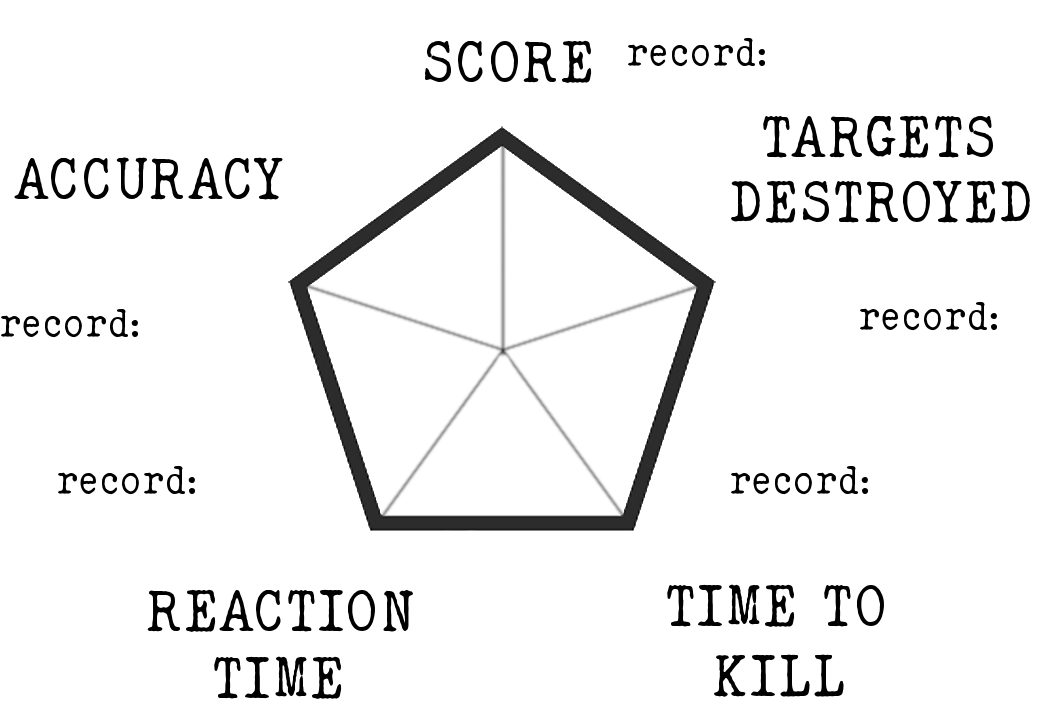
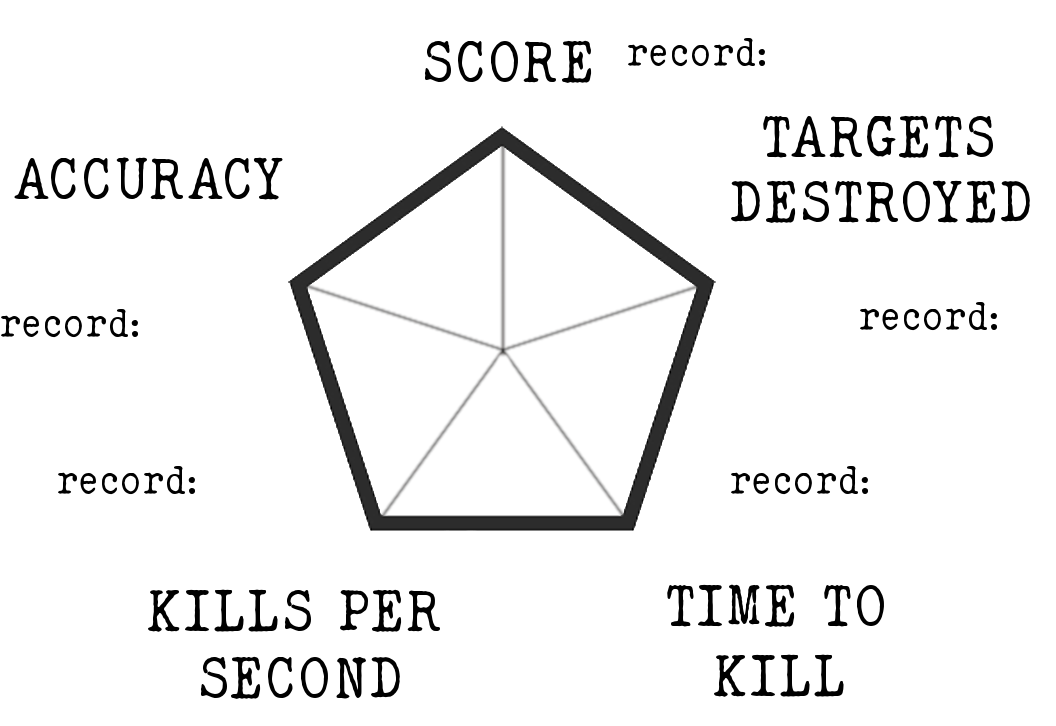
modifiche alle grafiche delle statistiche

Changed region(s): [[0.125, 0.7879, 0.4375, 0.9697]]

diff --git a/Game2Dprj/Results.cs b/Game2Dprj/Results.cs
@@ -106,7 +106,7 @@ namespace Game2Dprj
         void endHittingGameHandler(object sender, HittingGameEventArgs e)            //this handler could be edited to be the handler of both games,using typeof sender object to determine which game is ended
         {
             int scoreRec = 0, targetsDestroyedRec = 0;
-            float avgTimeToKillRec = 0, accuracyRec = 0;
+            float avgTimeToKillRec = 0, accuracyRec = 0, killsPerSecRec = 0;
             targetsDestroyedH = e.TargetsDestroyed;
             clicksH = e.Clicks;
             scoreH = e.Score;
@@ -129,8 +129,8 @@ namespace Game2Dprj
             {
                 avgTimeToKillH = -1;
             }
-            ManageFile(filePath, ref scoreRec, ref targetsDestroyedRec, ref avgTimeToKillRec, ref accuracyRec);
-            statistics = new Pentagon(pentagono, graphicPos, scoreH, targetsDestroyedH, avgTimeToKillH, killsPerSecH, accuracyH, 0.8f, freccia, font, scoreRec, targetsDestroyedRec, accuracyRec, avgTimeToKillRec,1f);
+            ManageFile(filePath, ref scoreRec, ref targetsDestroyedRec, ref avgTimeToKillRec, ref accuracyRec, ref killsPerSecRec);
+            statistics = new Pentagon(pentagono, graphicPos, scoreH, targetsDestroyedH, avgTimeToKillH, killsPerSecH, accuracyH, 0.8f, freccia, font, scoreRec, targetsDestroyedRec, accuracyRec, avgTimeToKillRec,killsPerSecRec);
         }
 
         void endTrackerGameHandler(object sender, TrackerGameEventArgs e)            //this handler could be edited to be the handler of both games,using typeof sender object to determine which game is ended
@@ -158,7 +158,8 @@ namespace Game2Dprj
             updated = hittingGameRecords[0] + " ";
             updated += hittingGameRecords[1] + " ";
             updated += hittingGameRecords[2] + " ";
-            updated += hittingGameRecords[3] + "\n";
+            updated += hittingGameRecords[3] + " ";
+            updated += hittingGameRecords[4] + "\n";
 
             if (trackerGameRecords[0] == "-" || trackerGameRecords[1] == "-" || trackerGameRecords[2] == "-")
             {
@@ -210,7 +211,7 @@ namespace Game2Dprj
             WriteToFile(filePath, updated);
         }
 
-        void ManageFile(string filePath, ref int scoreRec, ref int targetsDestroyedRec, ref float avgTimeToKillRec, ref float accuracyRec)  //hittingGame version
+        void ManageFile(string filePath, ref int scoreRec, ref int targetsDestroyedRec, ref float avgTimeToKillRec, ref float accuracyRec, ref float killsPerSecRec)  //hittingGame version
         {
             string readFromFile = ReadFromFile(filePath);
             string[] gameValues = readFromFile.Split("\n");
@@ -218,16 +219,18 @@ namespace Game2Dprj
             string[] trackerGameRecords = gameValues[1].Split(" ");
             string updated = null;
            
-            if (hittingGameRecords[0] == "-" || hittingGameRecords[1] == "-" || hittingGameRecords[2] == "-" || hittingGameRecords[3] == "-")
+            if (hittingGameRecords[0] == "-" || hittingGameRecords[1] == "-" || hittingGameRecords[2] == "-" || hittingGameRecords[3] == "-" || hittingGameRecords[4] == "-")
             {
                 updated = scoreH.ToString() + " ";
                 updated += targetsDestroyedH.ToString() + " ";
                 updated += avgTimeToKillH.ToString() + " ";
-                updated += accuracyH.ToString() + "\n";
+                updated += accuracyH.ToString() + " ";
+                updated += killsPerSecH.ToString() + "\n";
                 scoreRec = scoreH;
                 targetsDestroyedRec = targetsDestroyedH;
                 avgTimeToKillRec = avgTimeToKillH;
                 accuracyRec = accuracyH;
+                killsPerSecRec = killsPerSecH;
             }
             else
             {
@@ -254,9 +257,9 @@ namespace Game2Dprj
                     updated += hittingGameRecords[1] + " ";
                     targetsDestroyedRec = int.Parse(hittingGameRecords[1]);
                 }
-                
+
                 //check avgTimeToKillH
-                if (avgTimeToKillH < float.Parse(hittingGameRecords[2]))
+                if (((avgTimeToKillH < float.Parse(hittingGameRecords[2])) && (avgTimeToKillH != -1f)) || (float.Parse(hittingGameRecords[2]) == -1f))
                 {
                     updated += avgTimeToKillH.ToString() + " ";
                     avgTimeToKillRec = avgTimeToKillH;
@@ -270,13 +273,25 @@ namespace Game2Dprj
                 //check accuracyH
                 if (accuracyH > float.Parse(hittingGameRecords[3]))
                 {
-                    updated += accuracyH.ToString() + "\n";
+                    updated += accuracyH.ToString() + " ";
                     accuracyRec = accuracyH;
                 }
                 else
                 {
-                    updated += hittingGameRecords[3] + "\n";
+                    updated += hittingGameRecords[3] + " ";
                     accuracyRec = float.Parse(hittingGameRecords[3]);
+                }
+
+                //check accuracyH
+                if (killsPerSecH > float.Parse(hittingGameRecords[4]))
+                {
+                    updated += killsPerSecH.ToString() + "\n";
+                    killsPerSecRec = killsPerSecH;
+                }
+                else
+                {
+                    updated += hittingGameRecords[4] + "\n";
+                    killsPerSecRec = float.Parse(hittingGameRecords[4]);
                 }
             }
             updated += trackerGameRecords[0] + " ";
@@ -312,7 +327,7 @@ namespace Game2Dprj
             }
             catch (FileNotFoundException e)
             {
-                string defValues = "- - - -\n- - -";
+                string defValues = "- - - - -\n- - -";
                 create = new StreamWriter(filePath);
                 create.WriteLine(defValues);
                 return defValues;

diff --git a/Game2Dprj/Statistics.cs b/Game2Dprj/Statistics.cs
@@ -108,6 +108,24 @@ namespace Game2Dprj
             this.avgTimeToKillRecord = avgTimeToKillRecord.ToString() + " sec";
             this.killsPerSecRecord = killsPerSecRecord.ToString() + " kills/sec";
 
+            if (accuracyRecord == -1)
+            {
+                this.accuracyRecord = "N / D";
+            }
+            else
+            {
+                this.accuracyRecord = accuracyRecord.ToString() + " %";
+            }
+
+            if (avgTimeToKillRecord == -1)
+            {
+                this.avgTimeToKillRecord = "N / D";
+            }
+            else
+            {
+                this.avgTimeToKillRecord = avgTimeToKillRecord.ToString() + " sec";
+            }
+
             scaleRecord = new float[5] { maxScale * scoreRecord / 100, maxScale * targetsDestroyedRecord / 60, maxScale * 0.5f / avgTimeToKillRecord, maxScale * killsPerSecRecord / 4, maxScale * accuracyRecord / 100 };
         }
 
@@ -125,13 +143,13 @@ namespace Game2Dprj
 
             for (int i = 0; i < 5; i++)
             {
-                _spriteBatch.Draw(freccia, new Rectangle(centroPentagono.X, centroPentagono.Y, (int)(0.7 * freccia.Width), (int)(tempScale * scaleRecord[i] * freccia.Height)), null, red, (float)((2 * i * Math.PI) / 5), origin, SpriteEffects.None, 0f);
+                _spriteBatch.Draw(freccia, new Rectangle(centroPentagono.X, centroPentagono.Y, (int)(0.9 * freccia.Width), (int)(tempScale * scaleRecord[i] * freccia.Height)), null, red, (float)((2 * i * Math.PI) / 5), origin, SpriteEffects.None, 0f);
                 //_spriteBatch.Draw(freccia, new Vector2(centroPentagono.X, centroPentagono.Y), null, Color.White, (float)((2 * i * Math.PI) / 5), origin, scale[i], SpriteEffects.None, 0f);
             }
 
             for (int i = 0; i < 5; i++)
             {
-                _spriteBatch.Draw(freccia, new Rectangle(centroPentagono.X, centroPentagono.Y, (int)(0.7 * freccia.Width / 2), (int)(tempScale * scale[i] * freccia.Height)), null, Color.Blue, (float)((2 * i * Math.PI) / 5), origin, SpriteEffects.None, 0f);
+                _spriteBatch.Draw(freccia, new Rectangle(centroPentagono.X, centroPentagono.Y, (int)(0.9 * freccia.Width / 2), (int)(tempScale * scale[i] * freccia.Height)), null, Color.Blue, (float)((2 * i * Math.PI) / 5), origin, SpriteEffects.None, 0f);
                 //_spriteBatch.Draw(freccia, new Vector2(centroPentagono.X, centroPentagono.Y), null, Color.White, (float)((2 * i * Math.PI) / 5), origin, scale[i], SpriteEffects.None, 0f);
             }
 
@@ -201,7 +219,7 @@ namespace Game2Dprj
             this.accuracyRecord = accuracyRecord.ToString() + " %";
             this.avgTimeOnRecord = avgTimeOnRecord.ToString() + " sec";
 
-            scaleRecord = new float[3] { maxScale * scoreRecord / 100, maxScale * accuracyRecord / 100, maxScale * avgTimeOn};
+            scaleRecord = new float[3] { maxScale * scoreRecord / 100, maxScale * accuracyRecord / 100, maxScale * avgTimeOnRecord};
         }
 
         public override void Update()
@@ -228,9 +246,9 @@ namespace Game2Dprj
                 //_spriteBatch.Draw(freccia, new Vector2(centroPentagono.X, centroPentagono.Y), null, Color.White, (float)((2 * i * Math.PI) / 5), origin, scale[i], SpriteEffects.None, 0f);
             }
 
-            _spriteBatch.DrawString(font, score.ToString(), statsPos[0], Color.Blue, 0f, new Vector2(0, 0), 1.2f, SpriteEffects.None, 0f);
-            _spriteBatch.DrawString(font, accuracy, statsPos[1], Color.Blue, 0f, new Vector2(0, 0), 1.2f, SpriteEffects.None, 0f);
-            _spriteBatch.DrawString(font, avgTimeOn, statsPos[2], Color.Blue, 0f, new Vector2(0, 0), 1.2f, SpriteEffects.None, 0f);
+            _spriteBatch.DrawString(font, score.ToString(), statsPos[0], Color.Blue, 0f, new Vector2(0, 0), 1.4f, SpriteEffects.None, 0f);
+            _spriteBatch.DrawString(font, accuracy, statsPos[1], Color.Blue, 0f, new Vector2(0, 0), 1.4f, SpriteEffects.None, 0f);
+            _spriteBatch.DrawString(font, avgTimeOn, statsPos[2], Color.Blue, 0f, new Vector2(0, 0), 1.4f, SpriteEffects.None, 0f);
 
             _spriteBatch.DrawString(font, scoreRecord.ToString(), recordPos[0], red, 0f, new Vector2(0, 0), 1f, SpriteEffects.None, 0f);
             _spriteBatch.DrawString(font, accuracyRecord, recordPos[1], red, 0f, new Vector2(0, 0), 1f, SpriteEffects.None, 0f);
